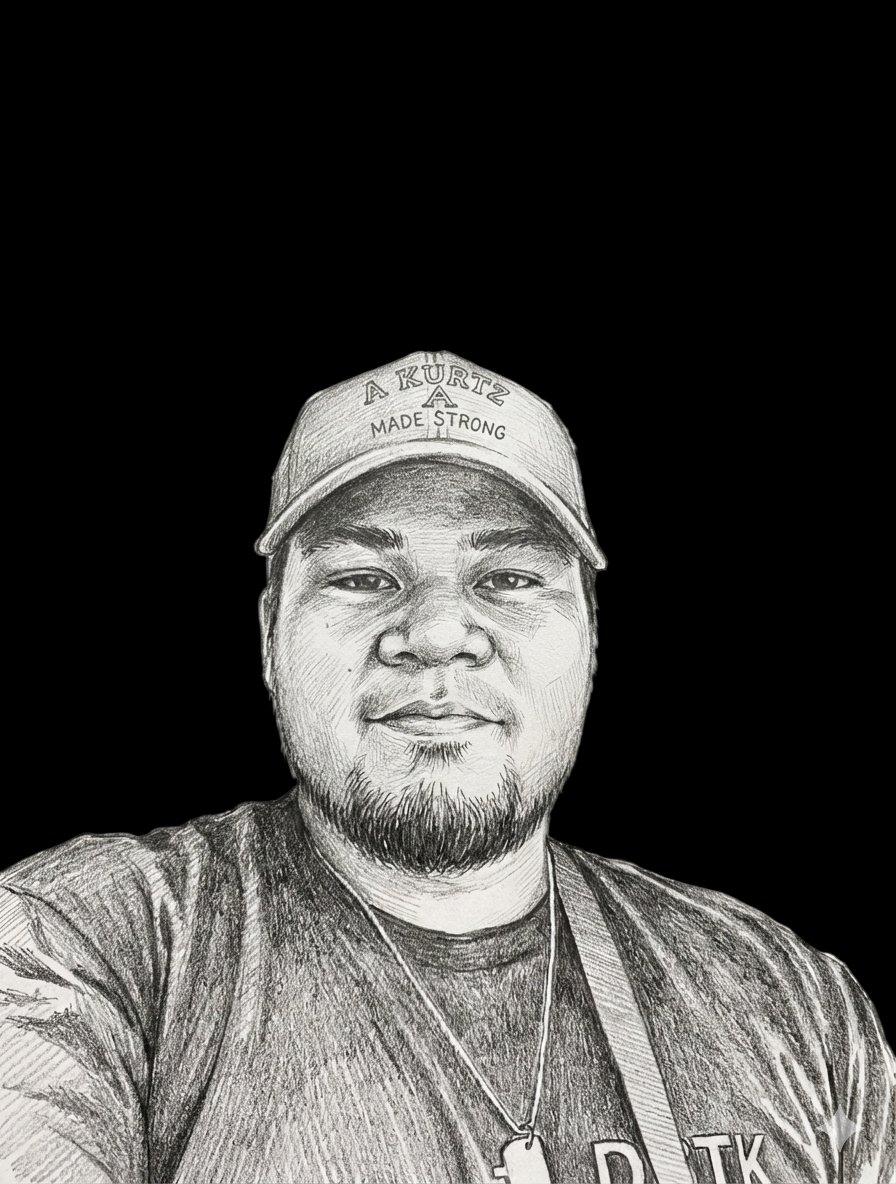
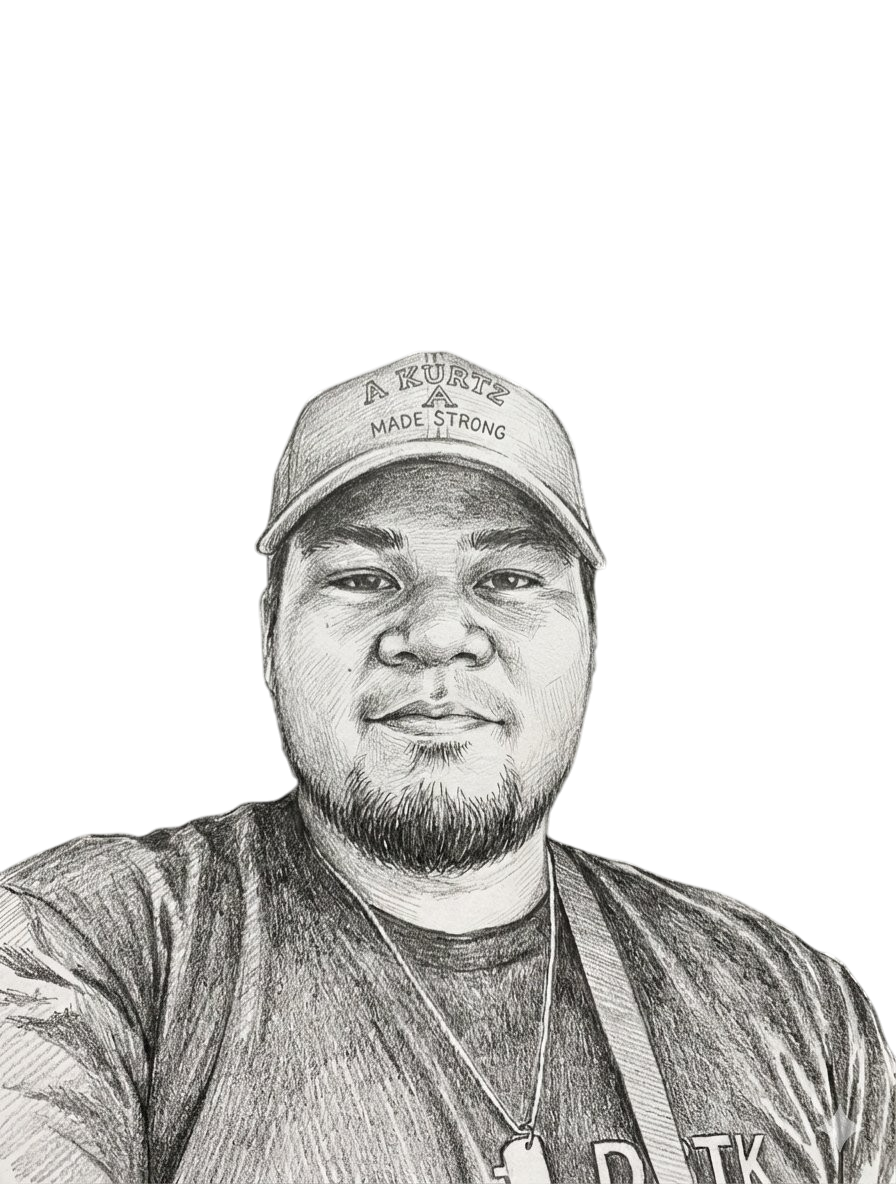
projects background modify. all done!!!

diff --git a/css/style.css b/css/style.css
@@ -177,6 +177,8 @@ ul { list-style: none; }
   position: absolute;
   inset: 0;
   pointer-events: none;
+  will-change: transform;
+  transform: translateZ(0);
 }
 
 .layer-bg {
@@ -202,6 +204,8 @@ ul { list-style: none; }
   border-radius: 50%;
   filter: blur(80px);
   animation: floatOrb 8s ease-in-out infinite;
+  will-change: transform;
+  transform: translateZ(0);
 }
 
 .orb-1 {
@@ -528,6 +532,7 @@ section { padding: 7rem 0; }
   max-width: 100vw;
   border-top: 1px solid var(--orange);
   border-bottom: 1px solid var(--orange);
+  contain: layout style;
 }
 
 .section-tag-ticker::before,
@@ -554,6 +559,7 @@ section { padding: 7rem 0; }
   color: rgba(255,122,0,0.45);
   font-size: 1.75rem;
   letter-spacing: 0.12em;
+  will-change: transform;
 }
 
 @keyframes tickerRun {
@@ -621,8 +627,9 @@ section { padding: 7rem 0; }
 .about {
   background:
     linear-gradient(105deg, rgba(10,10,15,0.97) 0%, rgba(10,10,15,0.92) 55%, rgba(10,10,15,0.75) 100%),
-    url('../images/backgrounds/bg-about.png') left center / 40% auto no-repeat fixed;
+    url('../images/backgrounds/bg-about.png') left center / 80% auto no-repeat fixed;
   position: relative;
+  isolation: isolate;
 }
 .about::after {
   content: '';
@@ -747,6 +754,7 @@ section { padding: 7rem 0; }
     linear-gradient(180deg, rgba(5,5,5,0.97) 0%, rgba(5,5,5,0.85) 35%, rgba(5,5,5,0.85) 65%, rgba(5,5,5,0.97) 100%),
     url('../images/backgrounds/bg-skills.png') center 75% / 100% auto no-repeat fixed;
   position: relative;
+  isolation: isolate;
 }
 .skills::after {
   content: '';
@@ -945,8 +953,9 @@ section { padding: 7rem 0; }
 .projects {
   background:
     linear-gradient(180deg, rgba(10,10,15,0.97) 0%, rgba(10,10,15,0.87) 40%, rgba(10,10,15,0.87) 60%, rgba(10,10,15,0.97) 100%),
-    url('../images/backgrounds/bg-projects.png') center 10% / 50% auto no-repeat fixed;
+    url('../images/backgrounds/bg-projects.png') center -15% / 80% auto no-repeat fixed;
   position: relative;
+  isolation: isolate;
 }
 .projects::after {
   content: '';
@@ -1341,6 +1350,7 @@ section { padding: 7rem 0; }
     linear-gradient(90deg, rgba(5,5,5,0.97) 0%, rgba(5,5,5,0.90) 50%, rgba(5,5,5,0.72) 100%),
     url('../images/backgrounds/bg-experience.jpg') right center / 500px auto no-repeat fixed;
   position: relative;
+  isolation: isolate;
 }
 .experience::after {
   content: '';
@@ -1582,6 +1592,7 @@ section { padding: 7rem 0; }
     linear-gradient(160deg, rgba(5,5,5,0.97) 0%, rgba(5,5,5,0.88) 50%, rgba(5,5,5,0.97) 100%),
     url('../images/backgrounds/bg-certifications.png') center 70% / 100% auto no-repeat fixed;
   position: relative;
+  isolation: isolate;
 }
 .certifications::after {
   content: '';
@@ -2098,6 +2109,7 @@ section { padding: 7rem 0; }
     linear-gradient(170deg, rgba(5,5,5,0.97) 0%, rgba(5,5,5,0.90) 45%, rgba(5,5,5,0.75) 100%),
     url('../images/backgrounds/bg-contact.jpg') right bottom / 480px auto no-repeat fixed;
   position: relative;
+  isolation: isolate;
 }
 .contact::after {
   content: '';

diff --git a/js/script.js b/js/script.js
@@ -155,15 +155,25 @@ const layerGrid = document.getElementById('layerGrid');
 const layerOrbs = document.getElementById('layerOrbs');
 const layerFg   = document.getElementById('layerFg');
 
+let ticking = false;
+let lastScrollY = 0;
+
 function applyParallax() {
   if (!layerBg) return;
-  const scrollY = window.scrollY;
-  layerBg.style.transform   = `translateY(${scrollY * 0.15}px)`;
-  layerGrid.style.transform = `translateY(${scrollY * 0.08}px)`;
-  layerOrbs.style.transform = `translateY(${scrollY * 0.12}px)`;
-  if (layerFg) layerFg.style.transform = `translateY(${scrollY * 0.05}px)`;
+  layerBg.style.transform   = `translateY(${lastScrollY * 0.15}px)`;
+  layerGrid.style.transform = `translateY(${lastScrollY * 0.08}px)`;
+  layerOrbs.style.transform = `translateY(${lastScrollY * 0.12}px)`;
+  if (layerFg) layerFg.style.transform = `translateY(${lastScrollY * 0.05}px)`;
+  ticking = false;
 }
-window.addEventListener('scroll', applyParallax, { passive: true });
+
+window.addEventListener('scroll', () => {
+  lastScrollY = window.scrollY;
+  if (!ticking) {
+    requestAnimationFrame(applyParallax);
+    ticking = true;
+  }
+}, { passive: true });
 
 // ─── Mouse Parallax (Hero only) ──────────
 const hero = document.getElementById('hero');
